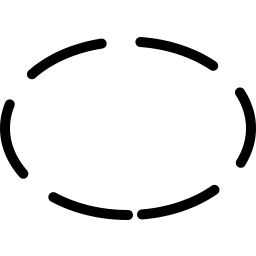
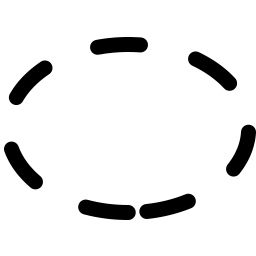
1

Changed region(s): [[0.0, 0.125, 1.0, 0.75], [0.1875, 0.7188, 0.875, 0.875]]

diff --git a/lib/app/widgets/painting_board_build.dart b/lib/app/widgets/painting_board_build.dart
@@ -184,6 +184,7 @@ mixin _PaintingBoardBuildMixin on _PaintingBoardBase {
                             top: _toolButtonPadding,
                             child: CanvasToolbar(
                               activeTool: _activeTool,
+                              selectionShape: selectionShape,
                               onToolSelected: _setActiveTool,
                               onUndo: _handleUndo,
                               onRedo: _handleRedo,
@@ -197,19 +198,19 @@ mixin _PaintingBoardBuildMixin on _PaintingBoardBase {
                                 _toolbarButtonSize +
                                 _toolSettingsSpacing,
                             top: _toolButtonPadding,
-                          child: _ToolSettingsCard(
-                            activeTool: _activeTool,
-                            penStrokeWidth: _penStrokeWidth,
-                            onPenStrokeWidthChanged: _updatePenStrokeWidth,
-                            bucketSampleAllLayers: _bucketSampleAllLayers,
-                            bucketContiguous: _bucketContiguous,
-                            onBucketSampleAllLayersChanged:
-                                _updateBucketSampleAllLayers,
-                            onBucketContiguousChanged:
-                                _updateBucketContiguous,
-                            selectionShape: selectionShape,
-                            onSelectionShapeChanged: _updateSelectionShape,
-                          ),
+                            child: _ToolSettingsCard(
+                              activeTool: _activeTool,
+                              penStrokeWidth: _penStrokeWidth,
+                              onPenStrokeWidthChanged: _updatePenStrokeWidth,
+                              bucketSampleAllLayers: _bucketSampleAllLayers,
+                              bucketContiguous: _bucketContiguous,
+                              onBucketSampleAllLayersChanged:
+                                  _updateBucketSampleAllLayers,
+                              onBucketContiguousChanged:
+                                  _updateBucketContiguous,
+                              selectionShape: selectionShape,
+                              onSelectionShapeChanged: _updateSelectionShape,
+                            ),
                         ),
                           Positioned(
                             left: _toolButtonPadding,

diff --git a/lib/app/widgets/selection_tool_button.dart b/lib/app/widgets/selection_tool_button.dart
@@ -1,14 +1,24 @@
 import 'package:fluent_ui/fluent_ui.dart';
 
+import '../../canvas/canvas_tools.dart';
+
 class SelectionToolButton extends StatelessWidget {
   const SelectionToolButton({
     super.key,
     required this.isSelected,
+    required this.selectionShape,
     required this.onPressed,
   });
 
   final bool isSelected;
+  final SelectionShape selectionShape;
   final VoidCallback onPressed;
+
+  static const Map<SelectionShape, String> _iconAssetMap = {
+    SelectionShape.rectangle: 'icons/warp1.png',
+    SelectionShape.ellipse: 'icons/warp2.png',
+    SelectionShape.polygon: 'icons/warp3.png',
+  };
 
   @override
   Widget build(BuildContext context) {
@@ -23,7 +33,7 @@ class SelectionToolButton extends StatelessWidget {
         : (isDark ? const Color(0xFF1B1B1F) : const Color(0xFFFFFFFF));
     final Color iconColor = isSelected
         ? accent
-        : (isDark ? const Color(0xFFE1E1E7) : const Color(0xFF323130));
+        : (isDark ? Colors.white : const Color(0xFF323130));
     final Color shadowColor = isSelected
         ? Color.lerp(
             Colors.transparent,
@@ -53,10 +63,14 @@ class SelectionToolButton extends StatelessWidget {
                 ),
             ],
           ),
-          child: Icon(
-            FluentIcons.rectangle_shape,
-            color: iconColor,
-            size: 20,
+          child: Center(
+            child: Image.asset(
+              _iconAssetMap[selectionShape]!,
+              width: 24,
+              height: 24,
+              color: iconColor,
+              colorBlendMode: BlendMode.srcIn,
+            ),
           ),
         ),
       ),

diff --git a/lib/app/widgets/canvas_toolbar.dart b/lib/app/widgets/canvas_toolbar.dart
@@ -16,6 +16,7 @@ class CanvasToolbar extends StatelessWidget {
   const CanvasToolbar({
     super.key,
     required this.activeTool,
+    required this.selectionShape,
     required this.onToolSelected,
     required this.onUndo,
     required this.onRedo,
@@ -25,6 +26,7 @@ class CanvasToolbar extends StatelessWidget {
   });
 
   final CanvasTool activeTool;
+  final SelectionShape selectionShape;
   final ValueChanged<CanvasTool> onToolSelected;
   final VoidCallback onUndo;
   final VoidCallback onRedo;
@@ -102,6 +104,7 @@ class CanvasToolbar extends StatelessWidget {
           useMousePosition: false,
           child: SelectionToolButton(
             isSelected: activeTool == CanvasTool.selection,
+            selectionShape: selectionShape,
             onPressed: () => onToolSelected(CanvasTool.selection),
           ),
         ),

diff --git a/lib/app/widgets/painting_board_widgets.dart b/lib/app/widgets/painting_board_widgets.dart
@@ -328,14 +328,6 @@ class _ToolSettingsCardState extends State<_ToolSettingsCard> {
               ),
             ],
           ),
-          if (widget.selectionShape == SelectionShape.polygon)
-            Padding(
-              padding: const EdgeInsets.only(top: 8),
-              child: Text(
-                '提示：单击添加节点，双击或点击起点闭合选区',
-                style: theme.typography.caption,
-              ),
-            ),
         ],
       );
     } else {
